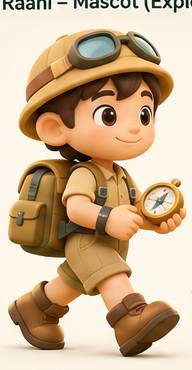
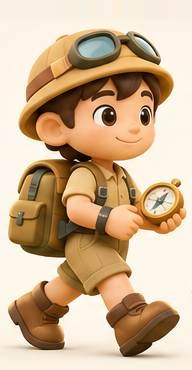
aira: remove caption from Raahi image, fix Tamil intro text, bump cache

Changed region(s): [[0.375, 0.0, 0.7188, 0.0297], [0.0, 0.0, 0.3438, 0.0297], [0.75, 0.0, 1.0, 0.0297]]

diff --git a/aira/app/intro.js b/aira/app/intro.js
@@ -2,7 +2,7 @@
   const seen = (() => { try { return JSON.parse(localStorage.getItem('raasta_intro_seen') || '{}'); } catch { return {}; } })();
   const cfg = {
     talk: { img: 'raahi-default.jpg', title: { en: 'Talk, Don’t Type', ta: 'பேசுங்கள். தட்டச்சு வேண்டாம்.', hi: 'बोलें, टाइप न करें', ml: 'സംസാരിക്കൂ, ടൈപ്പ് വേണ്ട' }, rows: { en: ['Speak in your own language', 'Tap an answer when offline', 'Build your route as you talk'], ta: ['உங்கள் மொழியில் பேசுங்கள்', 'இணையமின்றி பதிலைத் தட்டுங்கள்', 'பேசப் பேச உங்கள் பாதை உருவாகும்'], hi: ['अपनी भाषा में बोलें', 'ऑफ़लाइन उत्तर चुनें', 'बोलते हुए अपनी राह बनाएँ'], ml: ['നിങ്ങളുടെ ഭാഷയിൽ സംസാരിക്കൂ', 'ഓഫ്ലൈൻ ഉത്തരം തിരഞ്ഞെടുക്കൂ', 'സംസാരിക്കുമ്പോൾ വഴി നിർമ്മിക്കൂ'] } },
-    careers: { img: 'raahi-default.jpg', title: { en: 'Your Routes', ta: 'உங்களுக்கான பாதைகள்', hi: 'आपकी करियर राहें', ml: 'നിങ്ങളുടെ തൊഴിൽ വഴികൾ' }, rows: { en: ['See professional and vocational routes', 'Understand why each route fits', 'Open a pathway when ready'], ta: ['தொழில் மற்றும் திறன் வழிகளைப் பாருங்கள்', 'ஒவ்வொரு வழியும் ஏன் பொருந்தும் என்று தெரிந்துகொள்ளுங்கள்', 'தயார் হলে பாதையைத் திறக்குங்கள்'], hi: ['पेशेवर और कौशल रास्ते देखें', 'हर रास्ता क्यों सही है समझें', 'तैयार हों तो राह खोलें'], ml: ['തൊഴിൽ വഴികൾ കാണൂ', 'ഓരോ വഴിയും എന്തുകൊണ്ട് യോജിക്കുന്നു മനസ്സിലാക്കൂ', 'തയ്യാറാകുമ്പോൾ വഴി തുറക്കൂ'] } },
+    careers: { img: 'raahi-default.jpg', title: { en: 'Your Routes', ta: 'உங்களுக்கான பாதைகள்', hi: 'आपकी करियर राहें', ml: 'നിങ്ങളുടെ തൊഴിൽ വഴികൾ' }, rows: { en: ['See professional and vocational routes', 'Understand why each route fits', 'Open a pathway when ready'], ta: ['தொழில் மற்றும் திறன் வழிகளைப் பாருங்கள்', 'ஒவ்வொரு வழியும் ஏன் பொருந்தும் என்று தெரிந்துகொள்ளுங்கள்', 'தயாரானதும் பாதையைத் திறக்குங்கள்'], hi: ['पेशेवर और कौशल रास्ते देखें', 'हर रास्ता क्यों सही है समझें', 'तैयार हों तो राह खोलें'], ml: ['തൊഴിൽ വഴികൾ കാണൂ', 'ഓരോ വഴിയും എന്തുകൊണ്ട് യോജിക്കുന്നു മനസ്സിലാക്കൂ', 'തയ്യാറാകുമ്പോൾ വഴി തുറക്കൂ'] } },
     radar: { img: 'raahi-default.jpg', title: { en: 'Opportunity Radar', ta: 'வாய்ப்பு ரேடார்', hi: 'अवसर रडार', ml: 'അവസര റഡാർ' }, rows: { en: ['See the possible benefit first', 'Read every rule behind a match', 'Open the official source before applying'], ta: ['முதலில் கிடைக்கக்கூடிய உதவியைப் பாருங்கள்', 'ஒவ்வொரு விதியையும் படியுங்கள்', 'விண்ணப்பிக்கும் முன் அதிகாரப்பூர்வ மூலத்தைத் திறக்குங்கள்'], hi: ['पहले संभावित लाभ देखें', 'हर नियम पढ़ें', 'आवेदन से पहले आधिकारिक स्रोत खोलें'], ml: ['ആദ്യം ലഭിക്കാവുന്ന സഹായം കാണൂ', 'ഓരോ നിയമവും വായിക്കൂ', 'അപേക്ഷിക്കുന്നതിന് മുമ്പ് ഔദ്യോഗിക ഉറവിടം തുറക്കൂ'] } },
     pathway: { img: 'raahi-default.jpg', title: { en: 'My Pathway', ta: 'என் பாதை', hi: 'मेरी राह', ml: 'എന്റെ വഴി' }, rows: { en: ['Move week by week', 'Use trusted learning links', 'Share the plan with family'], ta: ['வாரம் வாரமாக முன்னேறுங்கள்', 'நம்பகமான கற்றல் இணைப்புகளைப் பயன்படுத்துங்கள்', 'திட்டத்தை குடும்பத்துடன் பகிருங்கள்'], hi: ['सप्ताह दर सप्ताह आगे बढ़ें', 'विश्वसनीय सीखने के लिंक देखें', 'परिवार के साथ योजना साझा करें'], ml: ['ആഴ്ചതോറും മുന്നേറൂ', 'വിശ്വസനീയ പഠന ലിങ്കുകൾ ഉപയോഗിക്കൂ', 'കുടുംബവുമായി പദ്ധതി പങ്കിടൂ'] } },
     parent: { img: 'raahi-default.jpg', title: { en: 'Parent Mode', ta: 'பெற்றோர் வழிகாட்டி', hi: 'परिवार के लिए', ml: 'കുടുംബത്തിനായി' }, rows: { en: ['Hear a respectful family note', 'See the words on screen too', 'Check official details before acting'], ta: ['மரியாதையான குடும்பக் குறிப்பைக் கேளுங்கள்', 'சொற்களை திரையிலும் பாருங்கள்', 'செயல்படும் முன் அதிகாரப்பூர்வ விவரங்களைச் சரிபார்க்குங்கள்'], hi: ['परिवार के लिए सम्मानजनक संदेश सुनें', 'शब्द स्क्रीन पर भी देखें', 'कदम उठाने से पहले आधिकारिक जानकारी जाँचें'], ml: ['കുടുംബത്തിനായുള്ള സന്ദേശം കേൾക്കൂ', 'വാക്കുകൾ സ്ക്രീനിലും കാണൂ', 'നടപടിക്ക് മുമ്പ് ഔദ്യോഗിക വിവരം പരിശോധിക്കൂ'] } },

diff --git a/aira/app/sw.js b/aira/app/sw.js
@@ -1,5 +1,5 @@
 // Offline-first: cache the app shell + rules/data so the whole Kavya journey works in airplane mode.
-const CACHE = "raasta-v3";
+const CACHE = "raasta-v4";
 const FILES = ["./", "index.html", "app.js", "engine.js", "data.js", "manifest.json","intro.css","intro.js","assets/illustrations/raahi-default.jpg","raasta-icon-192.png","raasta-icon-512.png","raasta-icon-maskable.png"];
 self.addEventListener("install", e => e.waitUntil(caches.open(CACHE).then(c => c.addAll(FILES))));
 self.addEventListener("activate", e => e.waitUntil(caches.keys().then(ks => Promise.all(ks.filter(k => k !== CACHE).map(k => caches.delete(k))))));
